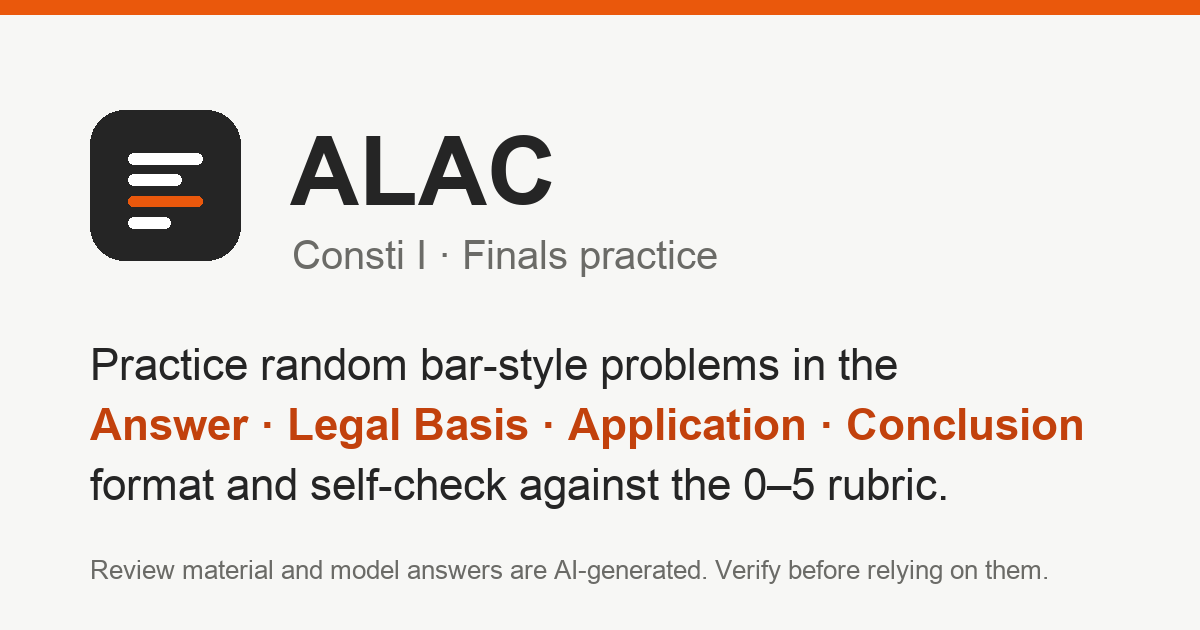
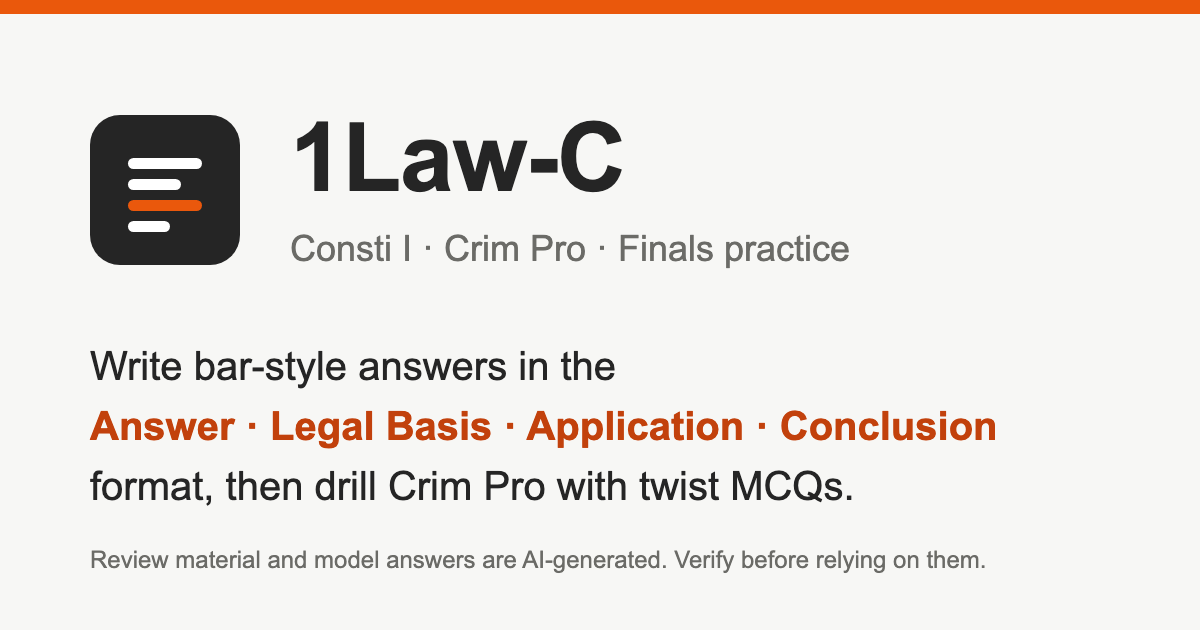
change name

diff --git a/src/app.html b/src/app.html
@@ -5,18 +5,18 @@
 		<meta name="viewport" content="width=device-width, initial-scale=1, viewport-fit=cover" />
 		<meta name="description" content="Practice Consti I finals problems in the ALAC format and check yourself against the bar's 0–5 rubric. Drill Crim Pro (Rules 110–127) with one-fact twist MCQs." />
 		<meta property="og:type" content="website" />
-		<meta property="og:site_name" content="ALAC Consti Practice" />
-		<meta property="og:title" content="ALAC · Consti I Finals practice" />
+		<meta property="og:site_name" content="1Law-C" />
+		<meta property="og:title" content="1Law-C · Consti I and Crim Pro finals practice" />
 		<meta
 			property="og:description"
-			content="Practice random bar-style problems in the Answer, Legal Basis, Application, Conclusion format and self-check against the 0–5 rubric. Review material is AI-generated; verify before relying on it."
+			content="Consti I: write bar-style answers in the Answer, Legal Basis, Application, Conclusion format and self-check against the 0–5 rubric. Crim Pro: one-fact twist MCQs and mock exams on Rules 110–127. Review material is AI-generated; verify before relying on it."
 		/>
 		<meta property="og:url" content="%site_origin%/" />
 		<meta property="og:image" content="%site_origin%/og.png" />
 		<meta property="og:image:type" content="image/png" />
 		<meta property="og:image:width" content="1200" />
 		<meta property="og:image:height" content="630" />
-		<meta property="og:image:alt" content="ALAC Consti I Finals practice" />
+		<meta property="og:image:alt" content="1Law-C · Consti I and Crim Pro finals practice" />
 		<meta name="twitter:card" content="summary_large_image" />
 		<link rel="icon" href="%sveltekit.assets%/favicon.svg" type="image/svg+xml" />
 		<link rel="preconnect" href="https://fonts.googleapis.com" />

diff --git a/src/routes/+layout.svelte b/src/routes/+layout.svelte
@@ -95,7 +95,7 @@
 
 <header class="top">
 	<div class="top-in">
-		<a class="brand" href="/" aria-label="ALAC home">
+		<a class="brand" href="/" aria-label="1Law-C home">
 			<svg width="26" height="26" viewBox="0 0 28 28" aria-hidden="true">
 				<rect width="28" height="28" rx="6" style="fill:var(--text)" />
 				<rect x="7" y="8" width="14" height="2" rx="1" style="fill:var(--surface)" />
@@ -103,7 +103,7 @@
 				<rect x="7" y="16" width="14" height="2" rx="1" style="fill:#EA580C" />
 				<rect x="7" y="20" width="8" height="2" rx="1" style="fill:var(--surface)" />
 			</svg>
-			<span class="stack"><b>ALAC</b><span class="hide-sm">Finals practice</span></span>
+			<span class="stack"><b>1Law-C</b><span class="hide-sm">Finals practice</span></span>
 		</a>
 		<nav class="subjects" aria-label="Subject">
 			{#each subjects as s (s.href)}
@@ -399,8 +399,8 @@
 		color: var(--text);
 	}
 	.brand b {
-		letter-spacing: 0.14em;
-		font-size: 15px;
+		letter-spacing: 0.01em;
+		font-size: 16px;
 	}
 	.brand span span {
 		font-size: 12px;

diff --git a/src/routes/+page.svelte b/src/routes/+page.svelte
@@ -49,7 +49,7 @@
 		const url = URL.createObjectURL(blob);
 		const a = document.createElement('a');
 		a.href = url;
-		a.download = `alac-consti-backup-${new Date().toISOString().slice(0, 10)}.json`;
+		a.download = `1law-c-backup-${new Date().toISOString().slice(0, 10)}.json`;
 		document.body.appendChild(a);
 		a.click();
 		a.remove();
@@ -65,7 +65,7 @@
 	}
 </script>
 
-<svelte:head><title>ALAC Consti Practice</title></svelte:head>
+<svelte:head><title>Consti I · 1Law-C</title></svelte:head>
 
 <main class="page">
 	<div class="between wrap intro">

diff --git a/src/lib/store.svelte.ts b/src/lib/store.svelte.ts
@@ -283,7 +283,7 @@ export function importJSON(text: string): { ok: true; count: number } | { ok: fa
 	try {
 		const s = JSON.parse(text);
 		if (!s || typeof s !== 'object' || !s.attempts || typeof s.attempts !== 'object') {
-			return { ok: false, error: 'That file is not an ALAC backup.' };
+			return { ok: false, error: 'That file is not a 1Law-C backup.' };
 		}
 		store.attempts = s.attempts;
 		store.drafts = s.drafts && typeof s.drafts === 'object' ? s.drafts : {};

diff --git a/src/routes/crimpro/numbers/+page.svelte b/src/routes/crimpro/numbers/+page.svelte
@@ -16,7 +16,7 @@
 	}
 </script>
 
-<svelte:head><title>Numbers · Crim Pro</title></svelte:head>
+<svelte:head><title>Numbers · Crim Pro · 1Law-C</title></svelte:head>
 
 <div class="stack" style="gap:12px">
 	<p class="muted" style="max-width:64ch">Hide the numbers and test yourself. Tap a blurred number to check it.</p>

diff --git a/src/routes/crimpro/exam/+page.svelte b/src/routes/crimpro/exam/+page.svelte
@@ -8,7 +8,7 @@
 	const s = $derived(store.crimpro.session);
 </script>
 
-<svelte:head><title>{s?.kind === 'practice' ? 'Practice' : 'Mock exam'} · Crim Pro</title></svelte:head>
+<svelte:head><title>{s?.kind === 'practice' ? 'Practice' : 'Mock exam'} · Crim Pro · 1Law-C</title></svelte:head>
 
 {#if !s}
 	<ExamSetup />

diff --git a/src/routes/crimpro/flips/+page.svelte b/src/routes/crimpro/flips/+page.svelte
@@ -2,7 +2,7 @@
 	import { FLIPS } from '$lib/crimpro';
 </script>
 
-<svelte:head><title>One fact flips it · Crim Pro</title></svelte:head>
+<svelte:head><title>One fact flips it · Crim Pro · 1Law-C</title></svelte:head>
 
 <div class="stack" style="gap:12px">
 	<p class="muted" style="max-width:64ch">

diff --git a/src/routes/p/[pid]/+page.svelte b/src/routes/p/[pid]/+page.svelte
@@ -6,7 +6,7 @@
 	const problem = $derived(BY_PID[data.pid]);
 </script>
 
-<svelte:head><title>Problem {problem.no} · ALAC Consti Practice</title></svelte:head>
+<svelte:head><title>Problem {problem.no} · Consti I · 1Law-C</title></svelte:head>
 
 {#key data.pid}
 	<Practice {problem} />

diff --git a/src/routes/crimpro/+page.svelte b/src/routes/crimpro/+page.svelte
@@ -30,7 +30,7 @@
 	}
 </script>
 
-<svelte:head><title>Twist drills · Crim Pro</title></svelte:head>
+<svelte:head><title>Twist drills · Crim Pro · 1Law-C</title></svelte:head>
 
 {#if session && !session.finished}
 	<div class="note note-warn between wrap" style="margin-bottom:14px">

diff --git a/src/routes/+error.svelte b/src/routes/+error.svelte
@@ -4,7 +4,7 @@
 	const crim = $derived(page.url.pathname.startsWith('/crimpro'));
 </script>
 
-<svelte:head><title>Not found · ALAC Finals Practice</title></svelte:head>
+<svelte:head><title>Not found · 1Law-C</title></svelte:head>
 
 <main class="page">
 	<div class="col">

diff --git a/src/routes/crimpro/rules/+page.svelte b/src/routes/crimpro/rules/+page.svelte
@@ -41,7 +41,7 @@
 	];
 </script>
 
-<svelte:head><title>Rules 110–127 · Crim Pro</title></svelte:head>
+<svelte:head><title>Rules 110–127 · Crim Pro · 1Law-C</title></svelte:head>
 
 <div class="stack" style="gap:12px">
 	<p class="muted" style="max-width:64ch">

diff --git a/src/app.css b/src/app.css
@@ -1,4 +1,4 @@
-/* ALAC design tokens. Light is the default; dark follows the OS unless the user picks a theme. */
+/* 1Law-C design tokens. Light is the default; dark follows the OS unless the user picks a theme. */
 :root {
 	--bg: #f7f7f5;
 	--surface: #ffffff;
